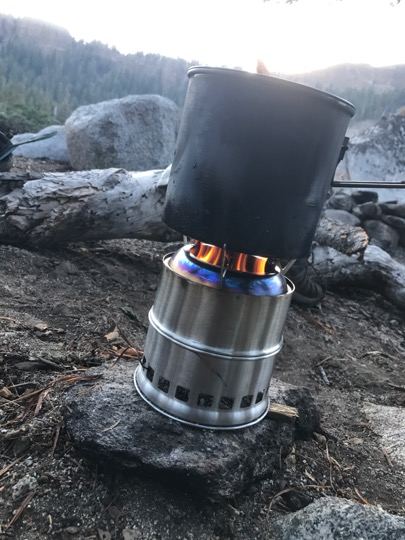
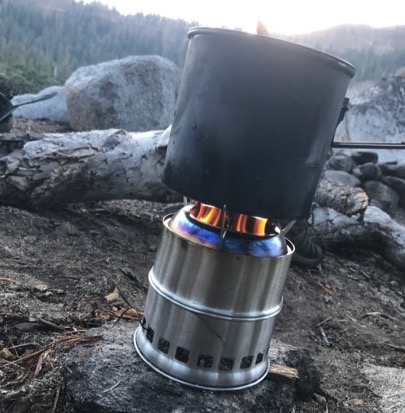
resized some images

diff --git a/wilderness.html b/wilderness.html
@@ -144,7 +144,7 @@
 											<h3>Bay Area Day Trips</h3>
 										</header>
 										<div class="image fit">
-											<img src="images/sunnywoods.jpeg" alt="" />
+											<img src="images/day_trips/sunnywoods.jpg" alt="" />
 										</div>
 										<p>For when time/weather doesn't want us to backpack.</p>
 										<ul class="actions">
